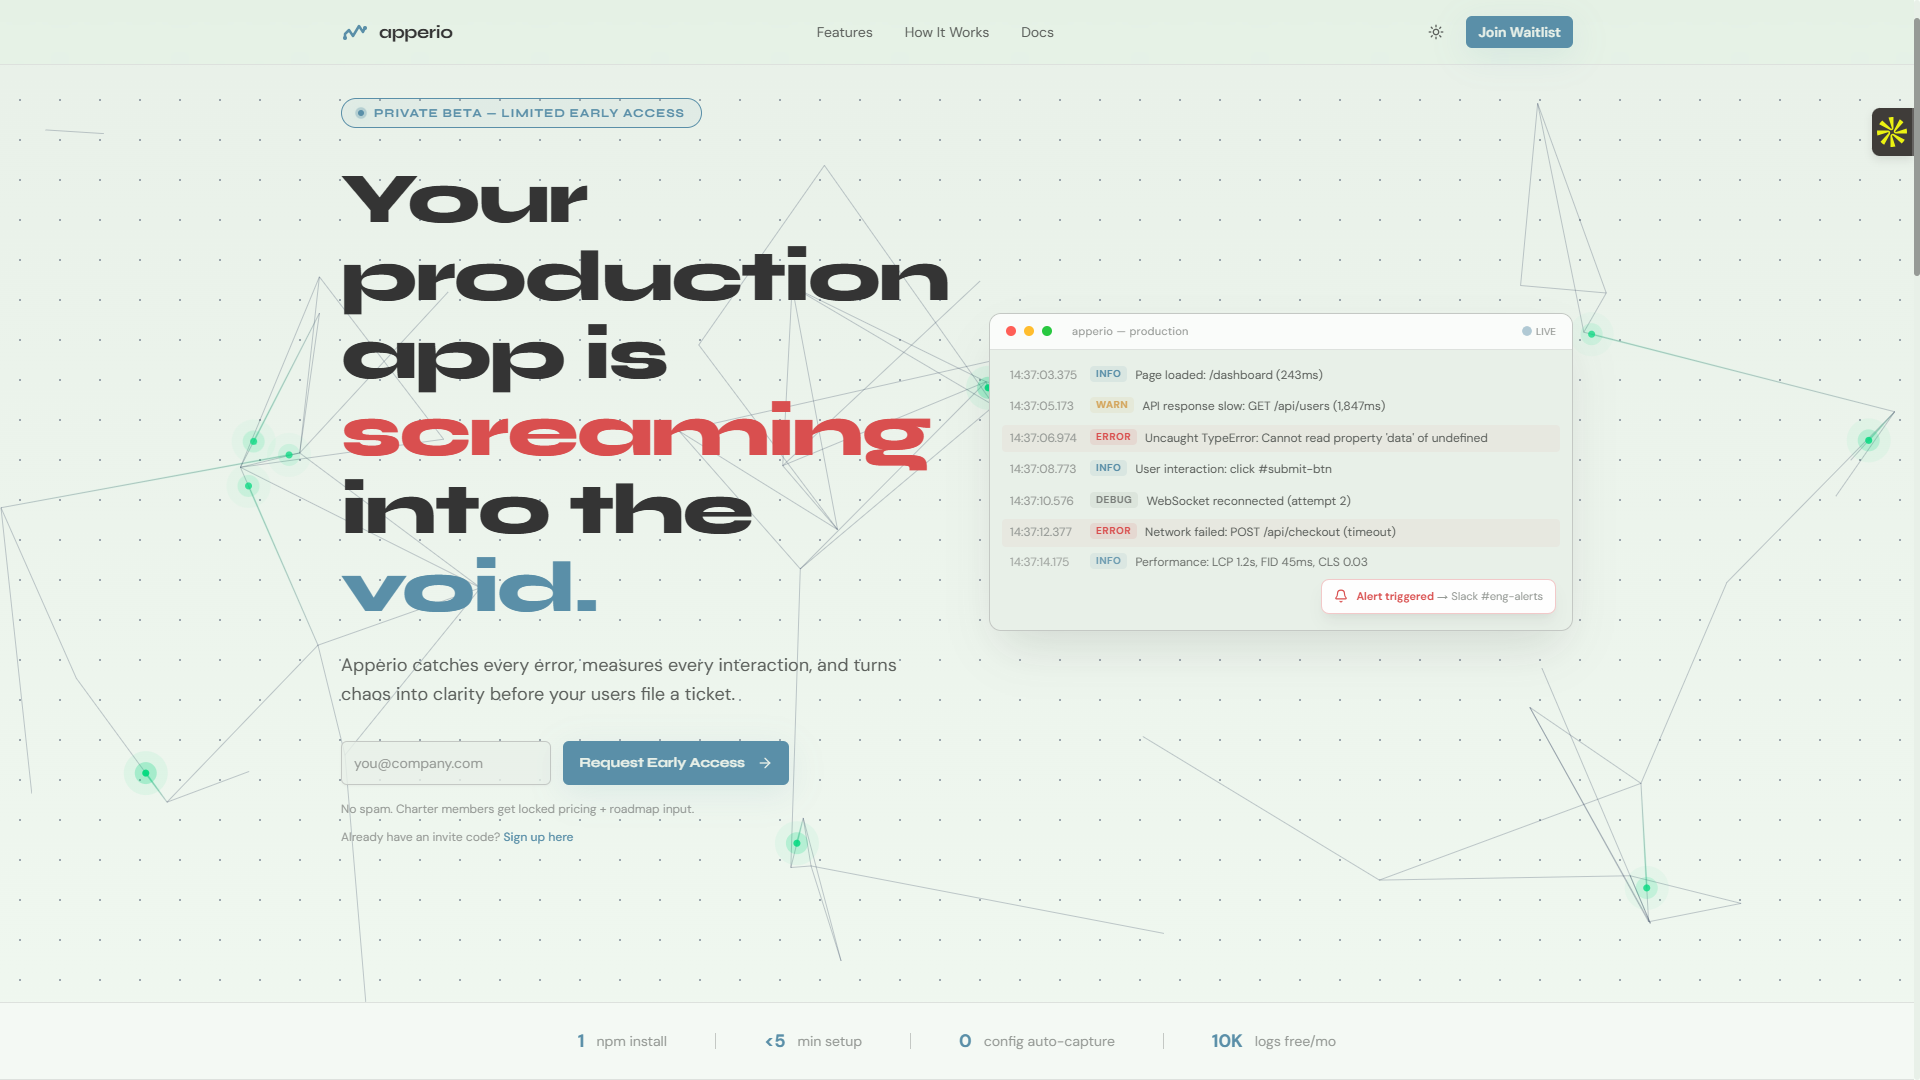
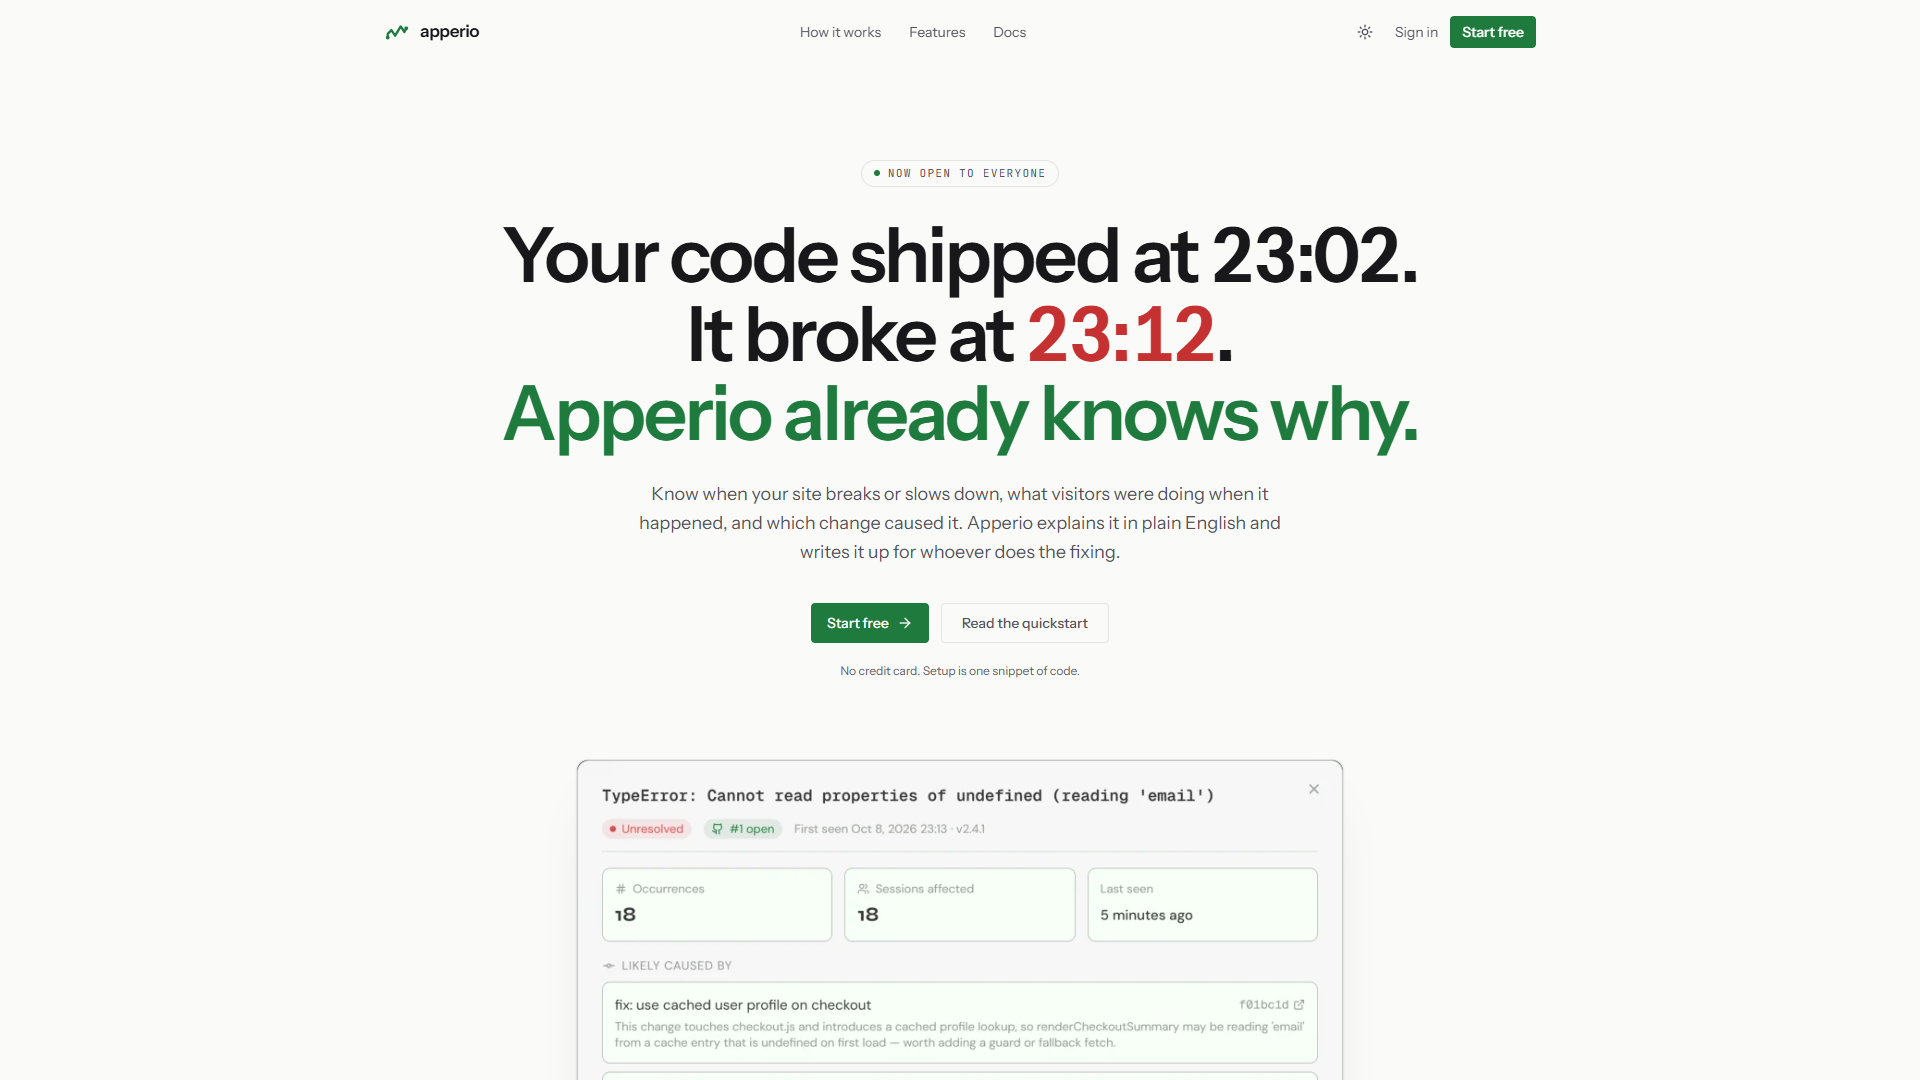
Add Apperio case study and new screenshot
Case study (problem, contributions, key decisions, outcome) for the
Apperio project, plus a current capture of the landing page in place of
the old beta screenshot. The summary and stack now describe what is
actually built and where it runs (Render, Vercel, Claude API) instead of
unverified usage and uptime figures.

diff --git a/src/data/projects.ts b/src/data/projects.ts
@@ -5,15 +5,48 @@ export const PROJECTS: Project[] = [
     id: "apperio",
     slug: "apperio",
     name: "Apperio",
-    description: "Production-ready logging and monitoring SaaS processing 500K+ events/month.",
-    longDescription: "Apperio (formerly LogHive) is a developer-first logging and monitoring platform built from the ground up. Features real-time log streaming, a custom query builder with 10+ operators, configurable alerting rules, and sub-200ms query response across 5M+ documents. Deployed on AWS EC2 with 99.9% uptime, serving 50+ beta users with JWT auth and RBAC.",
-    url: "https://apperio.dev",
+    description: "Error tracking and monitoring that ties every bug to the commit and deploy that caused it, explained in plain English.",
+    longDescription: "Apperio (formerly LogHive) watches a web app from the browser and from its GitHub repo at the same time. A one-line SDK captures errors, network calls, clicks, page views, console output, Web Vitals and session replays; a GitHub App records every commit and deploy. When something breaks, Apperio groups the error, points to the change that most likely caused it, explains it in plain English and drafts the GitHub issue. Built end to end by me: SDK, API, dashboard, docs and marketing site. Out of beta with open signup since October 2026.",
+    url: "https://www.apperio.dev",
     image: "/apperio.png",
-    tags: ["SaaS", "DevTools", "Monitoring"],
-    stack: ["Node.js", "Express", "MongoDB", "React", "Next.js", "Docker", "AWS"],
+    tags: ["SaaS", "DevTools", "Monitoring", "AI"],
+    stack: ["TypeScript", "Node.js", "Express", "MongoDB", "WebSockets", "Next.js", "React", "Tailwind CSS", "Claude API", "GitHub Apps", "Render", "Vercel"],
     role: "Founder & Lead Engineer",
     year: 2025,
     featured: true,
+    caseStudy: {
+      context: "Founder project · live product",
+      problem:
+        "Small teams and solo builders, more and more of them shipping AI-written code, usually hear about a broken release from their users. Monitoring tools hand them a stack trace, but not the answer they actually need: which change did this, and what do I do about it. I wanted a tool that connects the error in the browser to the commit and the deploy behind it, and says so in words a non-specialist can act on.",
+      contributions: [
+        "Built the TypeScript SDK, published on npm as apperio (now 1.5.2): auto-capture of errors, network calls, clicks, page views, console output and Web Vitals, batching with exponential backoff, and personal data redacted in the browser before anything is sent",
+        "Added session replay on rrweb, loaded through a dynamic import only when a project turns it on, so sites that don't use it never download it",
+        "Built the Express and MongoDB API: log ingestion, error fingerprinting and grouping, alert rules to email, Slack, webhooks and GitHub, and a WebSocket feed for the live log stream",
+        "Built change intelligence: a GitHub App that receives signed push webhooks, AI summaries of each commit, a deploy API that marks every release and gives it a verdict by comparing error rates before and after, and a suspect commit on every new error group",
+        "Closed the loop with GitHub issues: one click drafts the issue with the AI explanation and the suspect commit, and closing it on GitHub resolves the error in Apperio",
+        "Built the Next.js dashboard (77 pages across logs, errors, issues, changes, performance, sessions, alerts, teams and billing), the landing page and the docs, with every docs code sample type checked against the published SDK",
+      ],
+      decisions: [
+        {
+          title: "Point at the change, not just the stack trace",
+          body: "In July 2026 I moved Apperio from general purpose logging to change awareness. Every error is now read against the commits and deploys around it, because for a small team 'what changed?' is the first question and the stack trace is the second.",
+        },
+        {
+          title: "Real screenshots or none",
+          body: "The landing page shows no mockups. I built a small demo shop, pushed a real bug at 23:02, let real browsers hit it at 23:12, and captured what Apperio did next: grouped the error, named the commit, opened the GitHub issue, and judged the fix deploy healthy. The production build drops any capture that is missing rather than falling back to a mock.",
+        },
+        {
+          title: "Webhooks over polling",
+          body: "The first GitHub integration polled with each user's OAuth token. The GitHub App replaced it with signed webhooks, verified against the raw request body, so commits arrive within seconds and no user token sits on the server.",
+        },
+        {
+          title: "Check what's deployed before debugging",
+          body: "A GitHub integration 'bug' turned out to be production serving six month old code: the host had stopped deploying after the repositories moved to a new GitHub organisation. Since then the first step of any production bug is confirming which commit is actually live.",
+        },
+      ],
+      outcome:
+        "Apperio came out of beta in October 2026 with open signup. The full loop runs in production: SDK to grouped error, suspect commit, AI explanation, GitHub issue and back again when the issue closes. Before launch I audited every project route and added membership checks across the board. Next up are a single feed of everything that changed and broke in a project, and guided onboarding.",
+    },
   },
   {
     id: "apperio-sdk",
